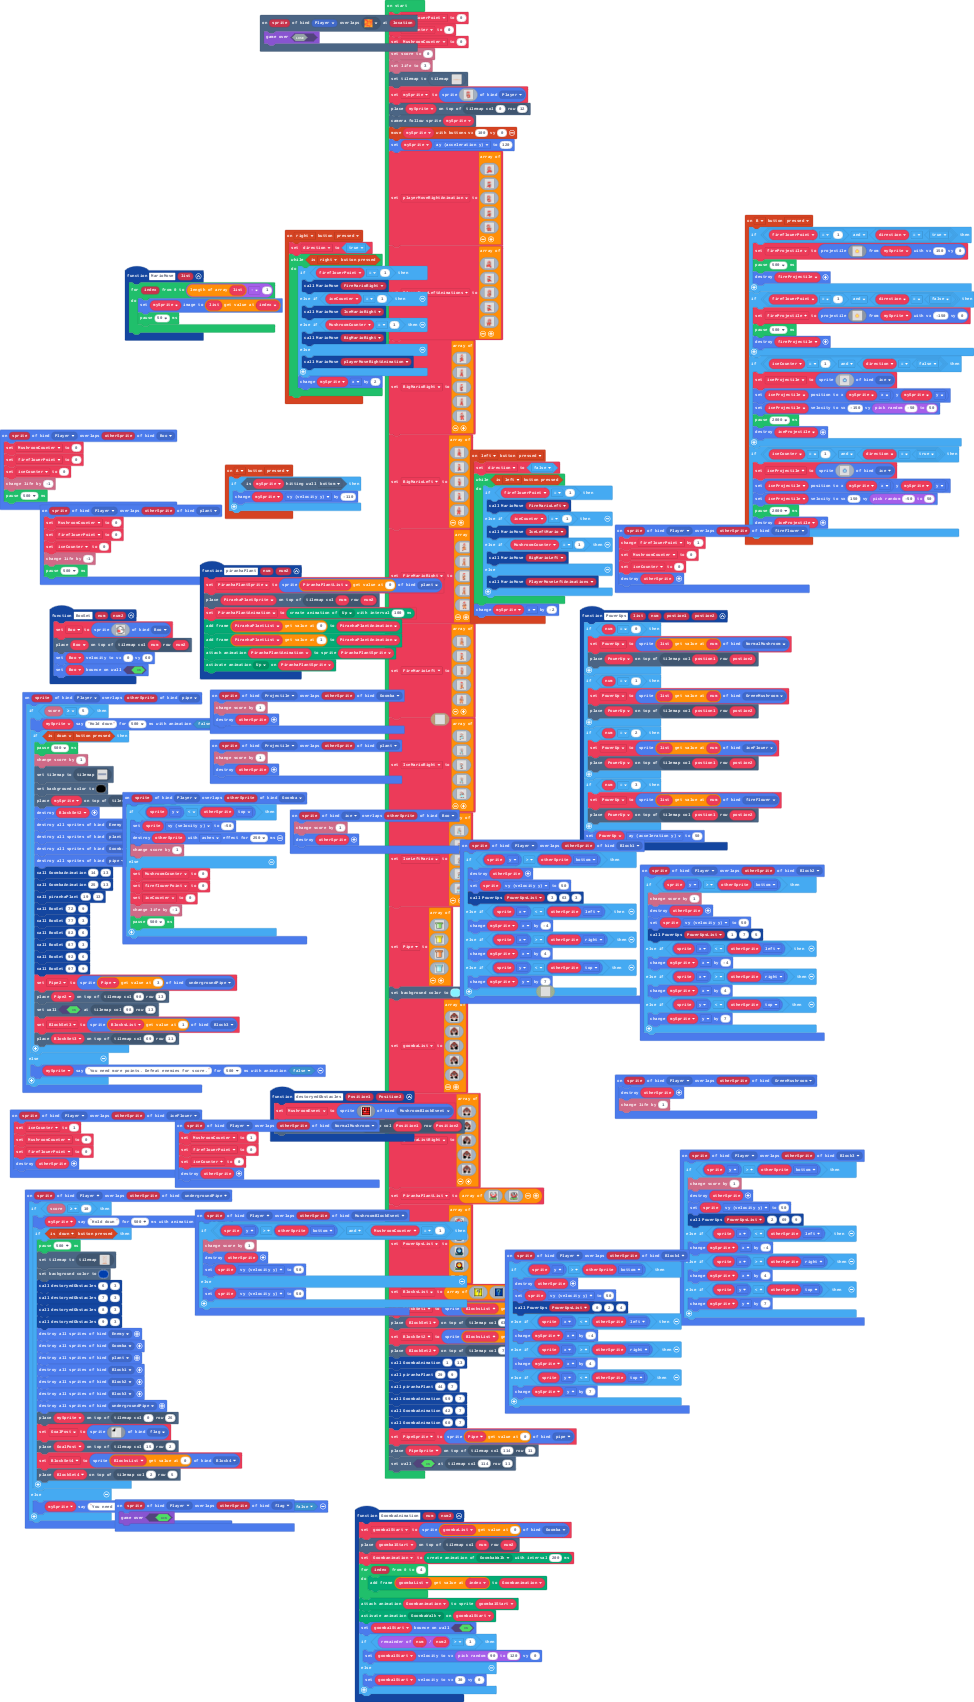
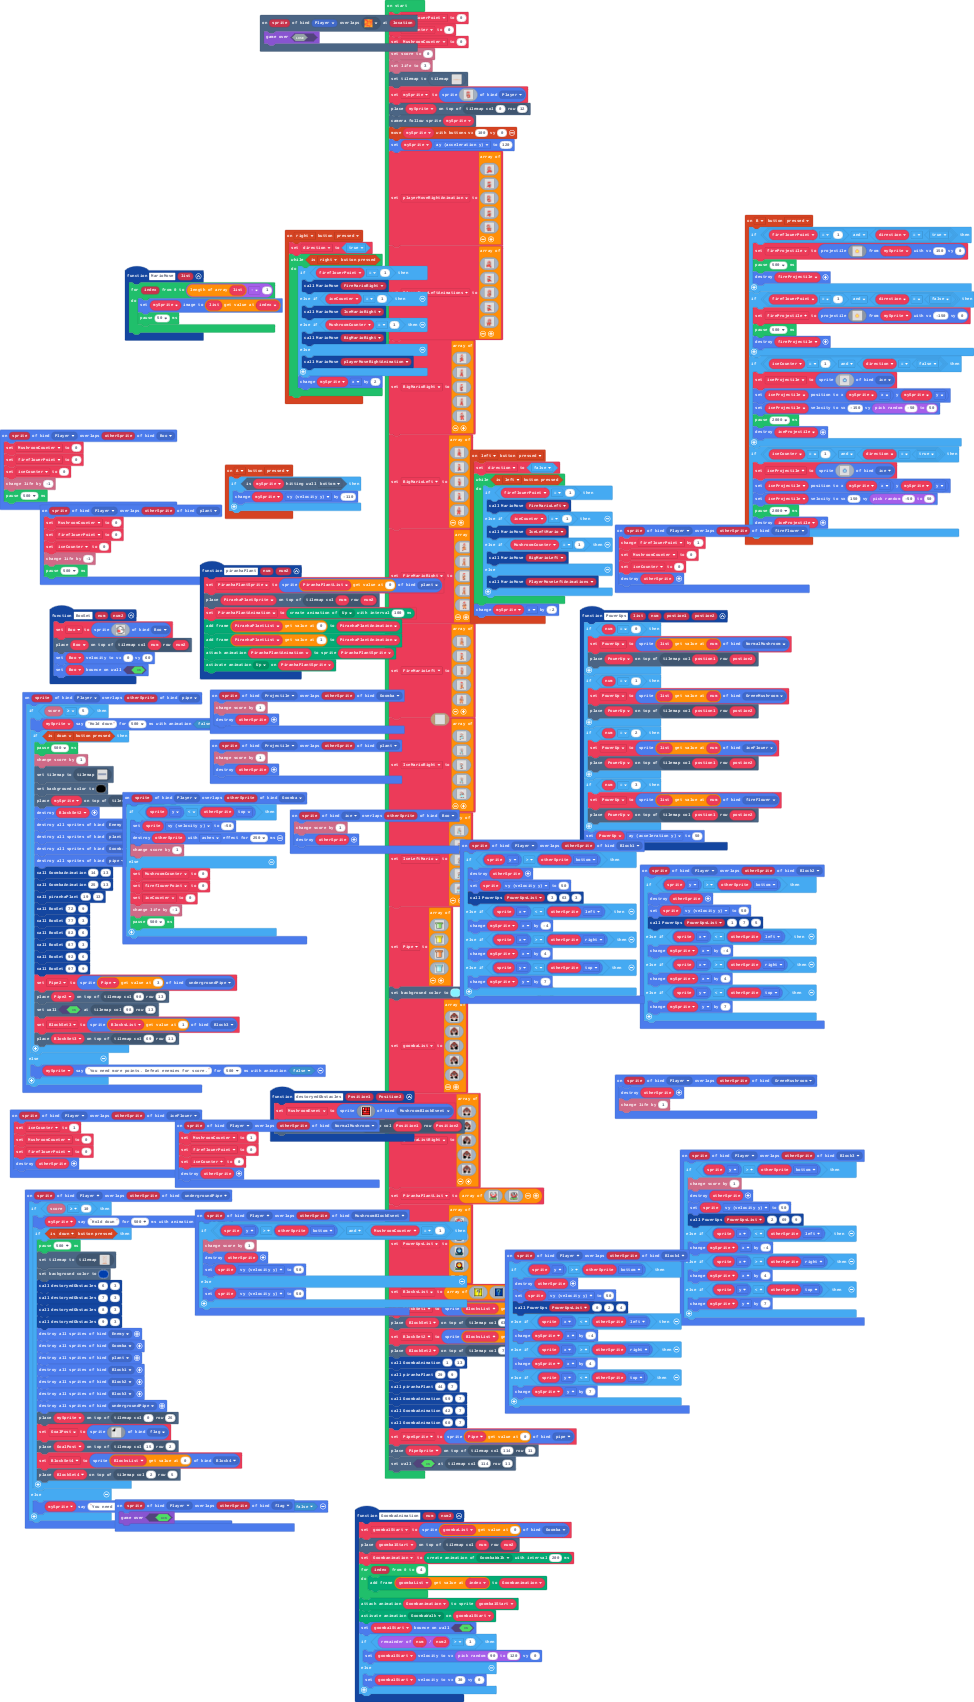
Update main.blocks, main.ts

Changed region(s): [[0.6468, 0.4982, 0.8624, 0.6228], [0.5544, 0.5605, 0.5852, 0.5917]]

diff --git a/main.ts b/main.ts
@@ -41,7 +41,6 @@ sprites.onOverlap(SpriteKind.Player, SpriteKind.Block1, function (sprite, otherS
 })
 sprites.onOverlap(SpriteKind.Player, SpriteKind.Block2, function (sprite, otherSprite) {
     if (sprite.y > otherSprite.bottom) {
-        info.changeScoreBy(1)
         sprites.destroy(otherSprite)
         sprite.vy = 50
         PowerUps(PowerUpsList, 1, 7, 5)
